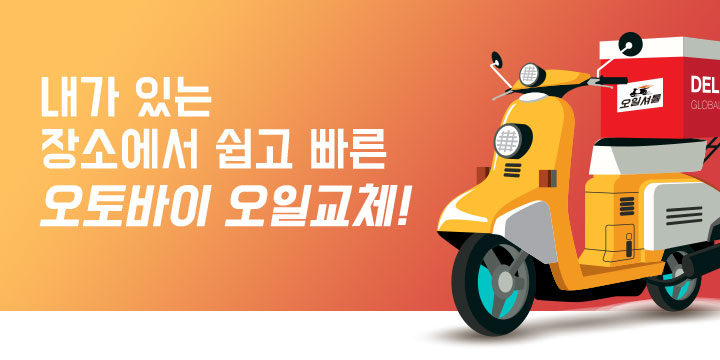
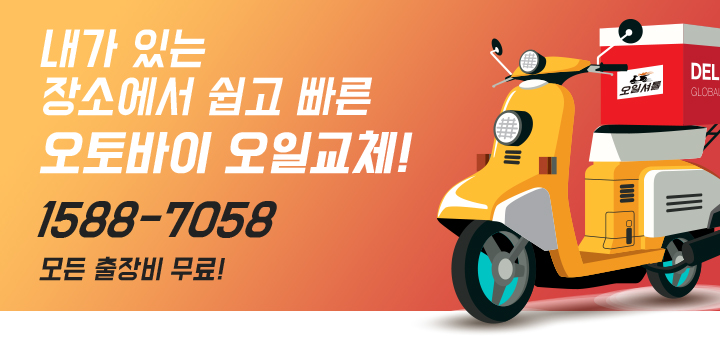
메인 추가

diff --git a/resources/css/ui.project.css b/resources/css/ui.project.css
@@ -76,6 +76,8 @@ input[type="file"]{ -webkit-appearance: none; background:transparent; font-size:
 .btn-home::before{content:"home"; font-family: 'Material Icons'; display:block; font-size:8vmin; color:#e56400;}
 .btn-edit{width:10vmin; height:10vmin; border-radius:50%; background:#e56400; margin:0 0 0 1vmin; display: inline-block;}
 .btn-edit::before{content:"edit"; font-family: 'Material Icons'; display:block; font-size:6vmin; color:#fff}
+.btn-logout{width:10vmin; height:10vmin; border-radius:50%; background:#888; margin:0 0 0 1vmin; display: inline-block;}
+.btn-logout::before{content:"logout"; font-family: 'Material Icons'; display:block; font-size:6vmin; color:#fff}
 .btn-round{background:#999; color:#fff; font-size:3.4vmin; padding:1.2vmin 4vmin 1vmin; border-radius:6vmin}
 .btn-base{width:100%; background:#e56400; color:#fff; font-size:5vmin; font-weight:500; border:0; padding:4.8vmin 4vmin 3.2vmin; height:auto}
 .btn-base::before{content:"done"; font-family: 'Material Icons'; display:inline-block; font-size:6vmin; color:#fff; vertical-align:middle; margin-right:1vmin; font-weight:600;}
@@ -85,6 +87,7 @@ input[type="file"]{ -webkit-appearance: none; background:transparent; font-size:
 .btn-base.grey{background:#999;}
 .btn-noti{position:absolute; top:2vmin; right:4vmin;  z-index:2;}
 .btn-noti::before{content:"room"; font-family: 'Material Icons'; display:block; font-size:10vmin; color:#e56400;}
+.btn-base.tel::before{content:"phone_in_talk"; font-weight:400; margin-right:1.2vmin; position:relative; top:-0.1vmin}
 
 .subtit-area{width:100%; position: relative; padding:0;}
 .subtit-area img{width: 100%; display:block;}
@@ -252,6 +255,9 @@ textarea{width:100%; border:0; font-size:3.4vmin; border-bottom:1px solid #ddd;}
 .line-b{border-bottom:1px solid #ddd !important; }
 .field-step .field-row{padding:1vmin 0 5vmin}
 .field-step h3 {font-size:6vmin; margin-bottom:3vmin}
+.field-step h3.with-btn {position:relative}
+.field-step h3.with-btn .btn-round {position:absolute;right:0;bottom:0;color:#fff}
+.field-step h3.with-btn .btn-round span {color:#fff}
 .field-step h3 b{display:block; color:#53c6e1; font-weight:600; font-size:4.6vmin;}
 .field-step h3 span{display:block; font-size:3.4vmin; color:#666; font-weight:200;}
 .field-step .type-addrsearch .inp-base{padding-right:25vmin;}
@@ -286,13 +292,18 @@ textarea{width:100%; border:0; font-size:3.4vmin; border-bottom:1px solid #ddd;}
 
 .login-type2 a span{display:inline-block; vertical-align:middle;}
 .login-type2 a::before{content:"mail_outline"; font-family: 'Material Icons'; font-size:3.4vmin;display:inline-block; vertical-align:middle; margin-right:5px; font-size:5vmin; font-weight:400;}
-.login-type2 a.type-j::before{content:"person_add_alt_1"; }
+.login-type2 a.type-j::before{content:"person_add_alt_1" !important; }
+.login-type2.v2 {text-align:center;margin-top:5vmin}
+.login-type2.v2 a::before{content:"lock";}
+
+.page-join .cont-area .logo {text-align:center}
+.page-join .cont-area h1{display:inline-block; width:40vmin; height:40vmin; background:#fff; border-radius:50%; text-align:center; padding-top:12vmin;line-height:1;}
 
 .btn-arrow{color:#fff;}
 .btn-arrow span{display:inline-block; vertical-align:middle; font-size: 3.4vmin;}
 .btn-arrow::after{content:"arrow_forward_ios"; font-family: 'Material Icons'; font-size:2.4vmin;display:inline-block; vertical-align:middle; font-size:4vmin; font-weight:400; margin-top:-0.3vmin;}
 
-.page-join{background:#000 url(../img/bg_login2.jpg) no-repeat 50% 0 / cover; }
+.page-join{background:#000 url(../img/bg_login2.jpg) no-repeat 50% 0 / cover fixed; }
 
 .page-join .lb-check{color:#fff;}
 .type-terms{position: relative; width:100%; padding:1vmin 20vmin 1vmin 0;}
@@ -393,14 +404,24 @@ textarea{width:100%; border:0; font-size:3.4vmin; border-bottom:1px solid #ddd;}
 .btn-base.type-round{border-radius:100vmin;}
 .page-main .btn-base.type-round{background-color:#666;}
 
+.oil-replace.type-b{display: flex; width:100%; justify-content: space-around; margin-bottom:8vmin}
+.oil-replace.type-b > a{display: block; flex:1; margin:0 2vmin}
+.oil-replace.type-b img{width:20vmin; display:block; margin:0 auto 1vmin;}
+.oil-replace.type-b strong{display: block; font-size:4vmin; font-weight:400; letter-spacing: -1px;}
+.oil-replace.type-b strong b{color:#e56400;}
 
-.main-addr{width:100%; position: relative; border-radius: 100vmin; background:#eee;
-padding:2vmin 15vmin 0 15vmin; margin-top:4vmin;}
+.main-addr{width:100%; position: relative; border-radius: 100vmin; background:#eee;padding:2vmin 15vmin 0 15vmin; margin-top:4vmin;}
 .main-addr .inp-base{background-color:transparent; border:0; padding:3.5vmin 0 4.5vmin;}
 .main-addr .btn-reg{position: absolute; top:3vmin; right:3vmin;}
 .btn-reg{font-family: 'Material Icons'; font-size:9vmin}
 .main-addr::before{content:"home";font-family: 'Material Icons'; font-size:7vmin; position:absolute; top:2.5vmin; left:5vmin; }
 
+.type-class {display:flex;flex-wrap:wrap;justify-content:space-between}
+.type-class .items {width:50%}
+.type-class .lb-check {font-size:4.4vmin;text-decoration:none;-webkit-tap-highlight-color:transparent}
+.type-class .lb-check:before {min-width:6vmin;min-height:6vmin;border-radius:50%}
+.type-class :checked + .lb-check:before {line-height:6vmin}
 
-
+.page-join.login .header-area .type-sub {display:none}
+.page-join.login .cont-area {padding:20vmin 8vmin 30vmin}
 

diff --git a/html/index.html b/html/index.html
@@ -44,7 +44,21 @@
 							<span>교체비용 <b>2 만원</b></span>
 						</a>
 					</div>
-					<button type="button" class="btn-base type-round"><span>바로 문의하기</span></button>
+					<div class="oil-replace type-b">
+						<a href="#">
+							<img src="../resources/img/oil_3.png" alt="">
+							<strong>브레이크 패드</strong>
+						</a>
+						<a href="#">
+							<img src="../resources/img/oil_4.png" alt="">
+							<strong>미션오일</strong>
+						</a>
+						<a href="#">
+							<img src="../resources/img/oil_5.png" alt="">
+							<strong>긴급출동<br>(타이어, 점프)</strong>
+						</a>
+					</div>
+					<button type="button" class="btn-base type-round tel"><span>바로 문의하기</span></button>
 					<div class="main-addr">
 						<input type="text" class="inp-base" placeholder="주소를 등록해 주세요.">
 						<button type="button" class="btn-reg"><span>add</span></button>

diff --git a/resources/css/ui.plugins.css b/resources/css/ui.plugins.css
@@ -796,3 +796,6 @@ transition: left 250ms cubic-bezier(0.4, 0, 0.2, 1), padding 250ms cubic-bezier(
 .ui-error-true .ui-error-item,
 .ui-error-true .ui-error-select .ui-select-btn {border-color:orangered}
 
+.ui-m .ui-modal.type-full.type-trems .ui-modal-wrap {height:100%}
+.type-trems .ui-modal-wrap .ui-modal-cont {height:100%;overflow-y:auto;-webkit-overflow-scrolling:touch}
+
